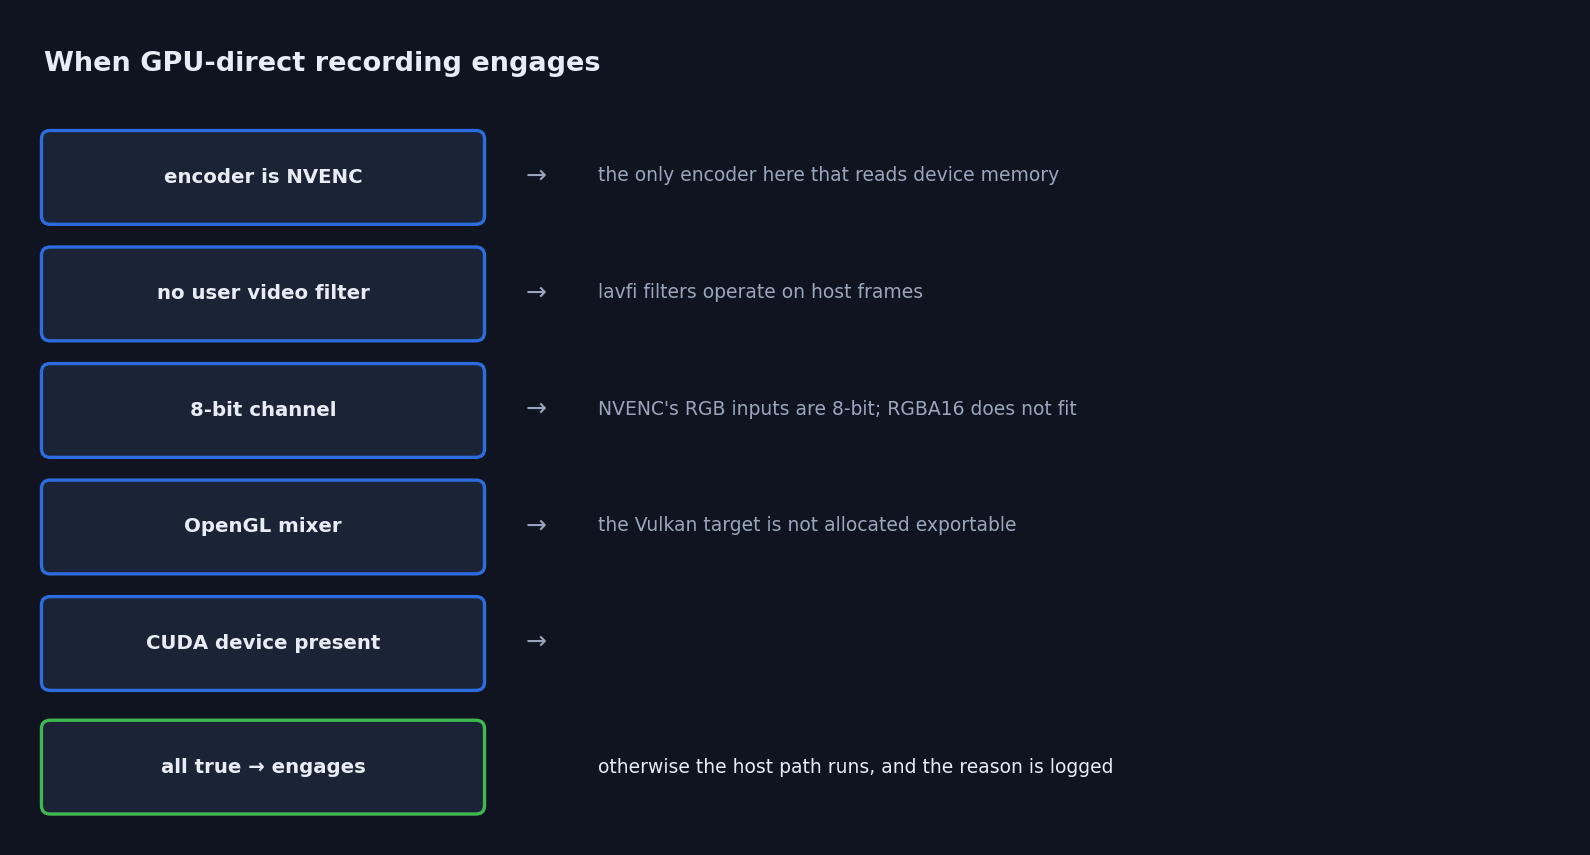
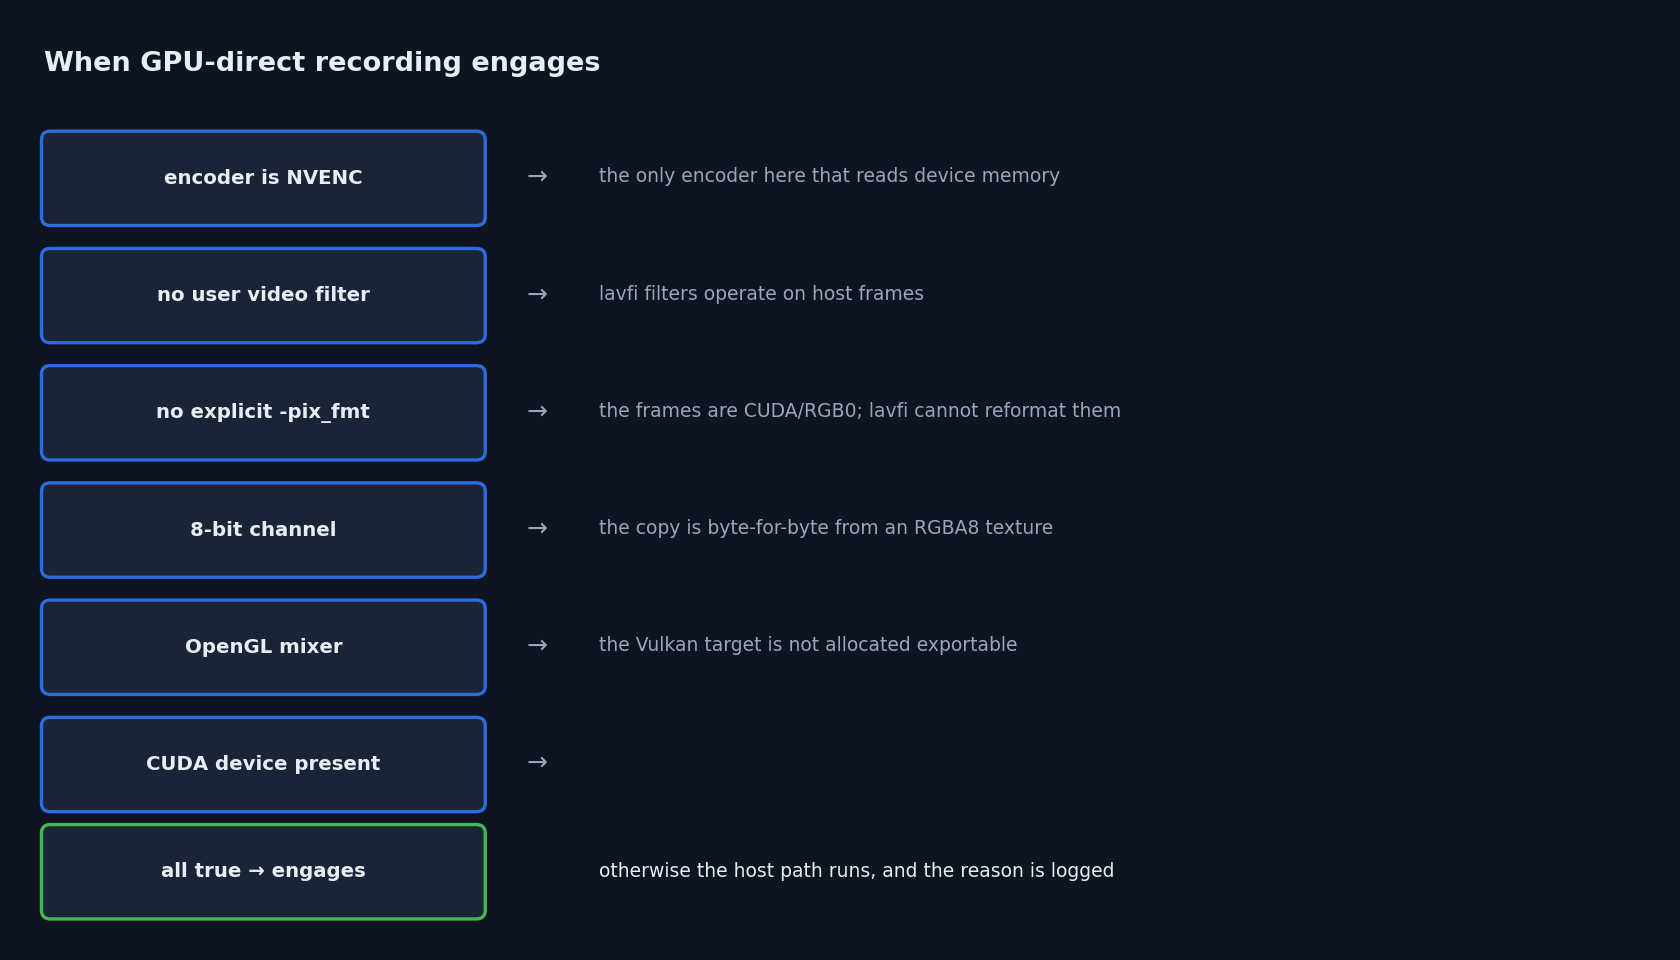
fix(ffmpeg): an explicit -pix_fmt no longer breaks a GPU-direct recording
"ADD 1 FILE out.mp4 -vcodec hevc_nvenc -pix_fmt p010le" produced no file at
all. The buffersink was narrowed to the requested format while the graph
carried CUDA frames, and graph configuration failed with "Impossible to convert
between the formats supported by the filter 'Parsed_null_0'". An explicit pixel
format is a request the GPU path cannot honour -- its frames are CUDA/RGB0 and
lavfi cannot reformat device frames -- so it is now a decline condition
alongside a user filter, and the request is served by the host path.

Found by asking whether NVENC can do more than 8 bits. It can, and the docs
implied otherwise. Measured by feeding each encoder p010le:

  h264_nvenc   no  -- 8-bit only in hardware, "No capable devices found"
  hevc_nvenc   yes -- Main 10, produces yuv420p10le
  av1_nvenc    unavailable on Pascal/Ampere; fails at 8-bit too, so this is
               the GPU generation rather than the bit depth

So NVENC is not the constraint. The constraint is this path's byte-for-byte
copy of a GL_RGBA8 texture into AV_PIX_FMT_RGB0, which is what makes it
kernel-free; a 16-bit channel's texture is RGBA16 and NVENC accepts no packed
16-bit RGB format matching it. Ten-bit recording works today through the host
path, from an 8-bit or a 16-bit channel.

Verified: hevc_nvenc -pix_fmt p010le now records yuv420p10le from both channel
depths, h264_nvenc and hevc_nvenc without a pix_fmt still take GPU-direct, and
[…]

diff --git a/src/modules/ffmpeg/consumer/ffmpeg_consumer.cpp b/src/modules/ffmpeg/consumer/ffmpeg_consumer.cpp
@@ -1005,12 +1005,24 @@ struct ffmpeg_consumer : public core::frame_consumer
                             return {};
                         }();
                         const bool has_filter = options.count("filter:v") > 0 || options.count("vf") > 0;
+                        // An explicit pixel format is a request the GPU path cannot
+                        // honour: its frames are CUDA/RGB0 and lavfi cannot convert
+                        // device frames to an arbitrary host format. Without this,
+                        // "-vcodec hevc_nvenc -pix_fmt p010le" configured the sink for
+                        // p010le, graph configuration failed with "Impossible to convert
+                        // between the formats supported by the filter 'Parsed_null_0'"
+                        // and the recording produced no file at all.
+                        const bool has_pix_fmt = options.count("pix_fmt") > 0 || options.count("pix_fmt:v") > 0 ||
+                                                 options.count("pixel_format") > 0 ||
+                                                 options.count("pixel_format:v") > 0;
 
                         const char* decline = nullptr;
                         if (selected_codec.find("nvenc") == std::string::npos)
                             decline = "encoder is not NVENC";
                         else if (has_filter)
                             decline = "a video filter was supplied";
+                        else if (has_pix_fmt)
+                            decline = "an explicit pixel format was requested";
                         else if (depth_ != common::bit_depth::bit8)
                             decline = "channel is not 8-bit";
                         else if (use_vulkan_)

diff --git a/docs/gen_pipeline_figures.py b/docs/gen_pipeline_figures.py
@@ -228,18 +228,19 @@ def fig_recording():
 # ---------------------------------------------------------------- figure 5
 def fig_gpudirect_gate():
     """Every condition GPU-direct recording checks, and why."""
-    fig, ax = plt.subplots(figsize=(10.6, 5.7))
-    ax.set_xlim(0, 10.6); ax.set_ylim(0, 5.7); ax.axis("off")
-    ax.text(0.15, 5.36, "When GPU-direct recording engages", fontsize=13, weight="bold", color=C_TEXT)
+    fig, ax = plt.subplots(figsize=(11.2, 6.4))
+    ax.set_xlim(0, 11.2); ax.set_ylim(0, 6.4); ax.axis("off")
+    ax.text(0.15, 6.06, "When GPU-direct recording engages", fontsize=13, weight="bold", color=C_TEXT)
 
     gates = [
         ("encoder is NVENC", "the only encoder here that reads device memory"),
         ("no user video filter", "lavfi filters operate on host frames"),
-        ("8-bit channel", "NVENC's RGB inputs are 8-bit; RGBA16 does not fit"),
+        ("no explicit -pix_fmt", "the frames are CUDA/RGB0; lavfi cannot reformat them"),
+        ("8-bit channel", "the copy is byte-for-byte from an RGBA8 texture"),
         ("OpenGL mixer", "the Vulkan target is not allocated exportable"),
         ("CUDA device present", ""),
     ]
-    y = 4.62
+    y = 5.32
     for name, why in gates:
         box(ax, 0.15, y - 0.32, 3.0, 0.62, name, C_GPU, fs=9.5)
         ax.text(3.45, y, "→", color=C_MUTED, fontsize=12, va="center")

diff --git a/docs/PIPELINE_EFFICIENCY_GUIDE.md b/docs/PIPELINE_EFFICIENCY_GUIDE.md
@@ -132,9 +132,9 @@ ADD 1 FILE out.mp4 -vcodec h264_nvenc -b:v 60M
 Measured **5.8 % less server CPU at 1080p and 15–18 % at 4K**, and the recorded
 picture is **pixel-identical** to the host path (`inf` dB, same encoder).
 
-**To stay on it, avoid:** a `-filter:v` (lavfi filters need host frames), a
-16-bit channel, or a Vulkan mixer. Any of those silently and correctly falls back
-— and says so:
+**To stay on it, avoid:** a `-filter:v`, an explicit `-pix_fmt`, a 16-bit
+channel, or a Vulkan mixer. Any of those silently and correctly falls back — and
+says so:
 
 ```
 [ffmpeg] GPU-direct recording active: the composited texture goes straight to NVENC, with no readback.
@@ -146,6 +146,39 @@ Confirm the readback really stopped:
 ```
 output[1] No consumer needs CPU readback (1 consumers); mixer readback skipped.
 ```
+
+### 10-bit recording — and what the 8-bit gate actually means
+
+**NVENC is not limited to 8-bit, and neither is recording here.** The gate above
+says "8-bit channel" because of how *this* fast path works, not because of the
+hardware. Measured on the reference rig:
+
+| encoder | 10-bit? |
+|---|---|
+| `h264_nvenc` | **no** — H.264 NVENC is 8-bit only in hardware. Fed 10-bit it reports *"No capable devices found"* |
+| `hevc_nvenc` | **yes** — Main 10, verified producing `yuv420p10le` |
+| `av1_nvenc` | not on Pascal or Ampere; fails at 8-bit too, so this is the GPU generation, not the depth |
+
+To record 10-bit, ask for it:
+
+```
+ADD 1 FILE out.mp4 -vcodec hevc_nvenc -pix_fmt p010le
+```
+
+That works from an 8-bit **or** a 16-bit channel, and it takes the host path by
+design — an explicit pixel format is a request the GPU path cannot honour,
+because its frames are CUDA/RGB0 and lavfi cannot reformat device frames.
+
+So the trade is explicit: **GPU-direct gives you 8-bit output with less CPU;
+`-pix_fmt p010le` gives you 10-bit through the host path.** You choose per
+recording, and the log says which you got.
+
+Why the fast path is 8-bit: it copies the mixer's `GL_RGBA8` texture
+byte-for-byte into an `AV_PIX_FMT_RGB0` frame, which is what makes it kernel-free.
+A 16-bit channel's texture is RGBA16, and NVENC accepts no packed 16-bit RGB
+format that matches it byte-for-byte (`x2rgb10le` is 10 bits in 32; `gbrp16le`
+and `yuv444p16le` are planar). Supporting it means a conversion kernel — exactly
+what the current design avoids.
 
 ### Recording with alpha
 
@@ -260,6 +293,10 @@ this work:
 - GPU-direct **recording** is OpenGL-only. The Vulkan mixer's composition target
   is not allocated with export capability, so CUDA cannot import it. That is a
   mixer allocation change, not a consumer one.
+- GPU-direct **recording** is 8-bit output only, by construction. This is not an
+  NVENC limitation — `hevc_nvenc` does Main 10 — it is the byte-for-byte copy
+  that makes the path kernel-free. Ask for `-pix_fmt p010le` and you get 10-bit
+  via the host path.
 - GPU-direct **decode** is OpenGL-only and progressive-only.
 
 ---

diff --git a/docs/GPU_OPTIMIZATION_PLAN.md b/docs/GPU_OPTIMIZATION_PLAN.md
@@ -1129,6 +1129,37 @@ Both cost a debugging cycle and are worth knowing before touching this code.
   rather than during recording. The uploader remembers the device on first use and
   `~ffmpeg_consumer` calls `release()` before the contexts go.
 
+### Bit depth: an NVENC limit and a limit of this path, which are not the same
+
+Worth stating precisely, because "GPU-direct is 8-bit" invites the wrong
+conclusion. Measured on the reference rig by feeding each encoder `p010le`:
+
+| encoder | 10-bit output |
+|---|---|
+| `h264_nvenc` | **no** — 8-bit only in hardware; reports *"No capable devices found"* |
+| `hevc_nvenc` | **yes** — Main 10, produces `yuv420p10le` |
+| `av1_nvenc` | unavailable on Pascal/Ampere — fails at 8-bit too, so this is the GPU generation rather than the depth |
+
+So NVENC is not the constraint. The constraint is this path's byte-for-byte copy
+of a `GL_RGBA8` texture into `AV_PIX_FMT_RGB0`, which is what makes it
+kernel-free. A 16-bit channel's texture is RGBA16 and NVENC accepts no packed
+16-bit RGB format matching it (`x2rgb10le` is 10 bits in 32; `gbrp16le` and
+`yuv444p16le` are planar), so supporting it needs the conversion kernel the
+design was built to avoid.
+
+Ten-bit recording therefore works today, through the host path, from an 8-bit or
+a 16-bit channel: `-vcodec hevc_nvenc -pix_fmt p010le`.
+
+**A defect this exposed, fixed here.** An explicit `-pix_fmt` combined with
+GPU-direct produced *no file at all*. The buffersink was narrowed to the
+requested format while the graph carried CUDA frames, and configuration failed
+with *"Impossible to convert between the formats supported by the filter
+'Parsed_null_0'"*. An explicit pixel format is now a decline condition, alongside
+a user filter, so the request is honoured through the host path instead of
+breaking the recording. Verified: `hevc_nvenc -pix_fmt p010le` records
+`yuv420p10le` from both an 8-bit and a 16-bit channel, and the ordinary
+GPU-direct path is still pixel-identical to the host path at `inf` dB.
+
 ### Not done: Vulkan, and the reason is not the import path
 
 The obvious assumption — that this only needs `cuda_vk_texture.h` in place of
